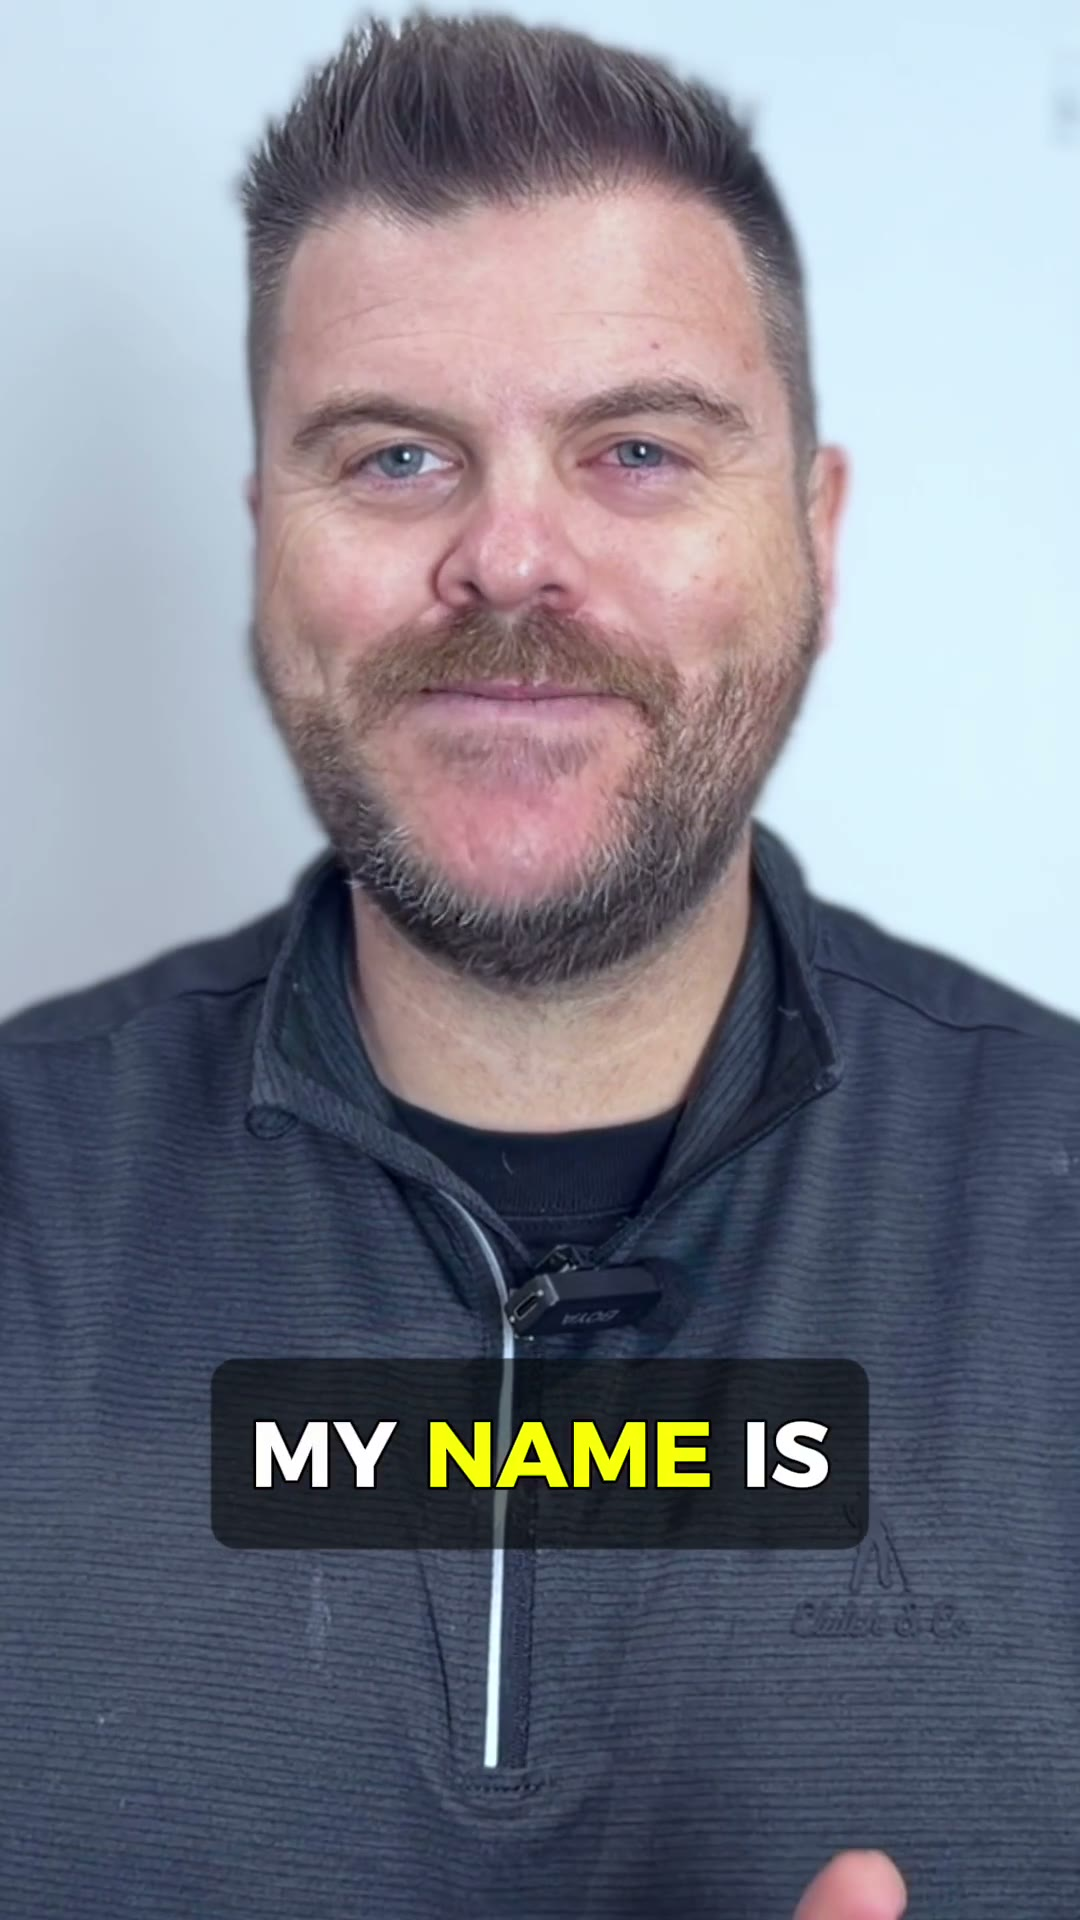
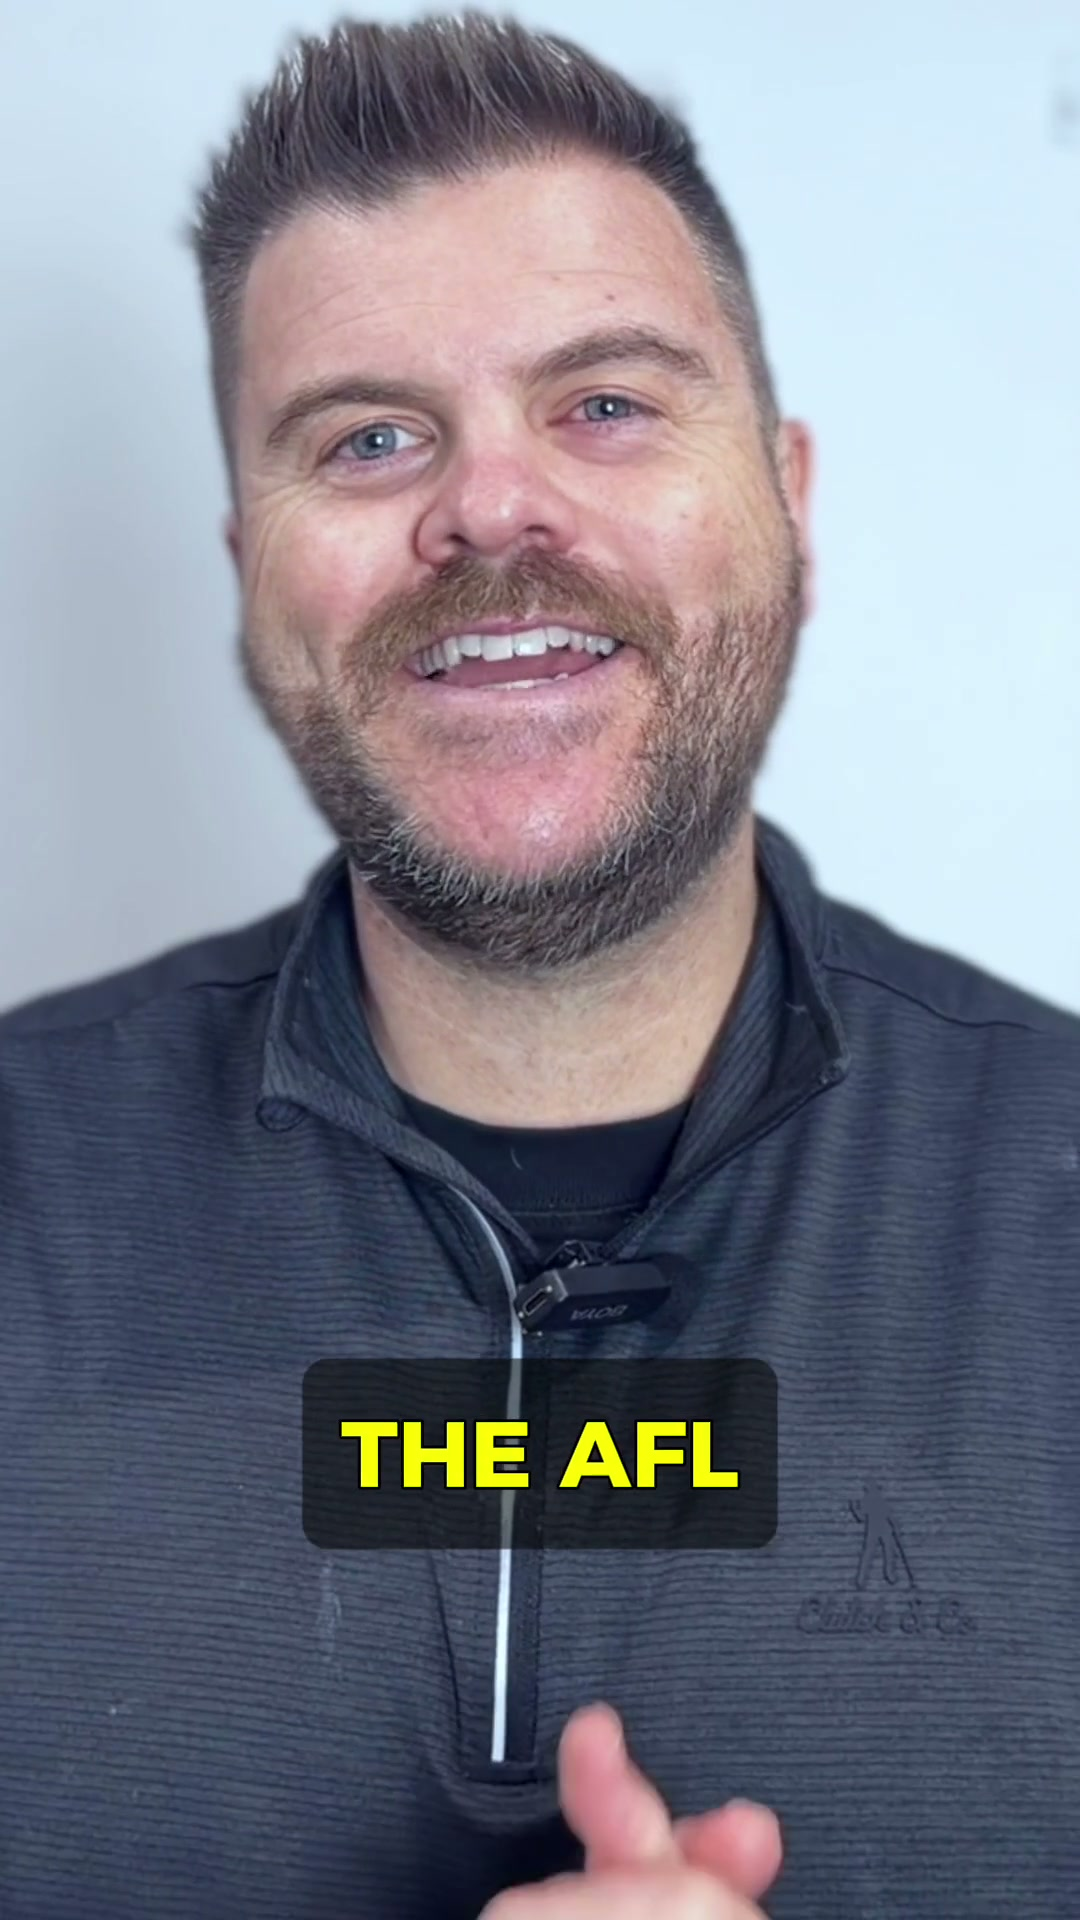
Uppercase 18px CV button and set THE AFL frame as video thumbnail

diff --git a/afl/index.html b/afl/index.html
@@ -151,7 +151,8 @@
   .hero-photo { aspect-ratio: 9 / 16; width: 100%; }
   .cv-btn {
     display: flex; align-items: center; justify-content: center; gap: 8px;
-    font-family: 'Space Mono', monospace; font-size: 13px; font-weight: 700;
+    font-family: 'Space Mono', monospace; font-size: 18px; font-weight: 700;
+    text-transform: uppercase; letter-spacing: 0.02em;
     background: var(--navy); color: #ffffff;
     padding: 13px 20px; border-radius: 999px;
     transition: background .2s;
